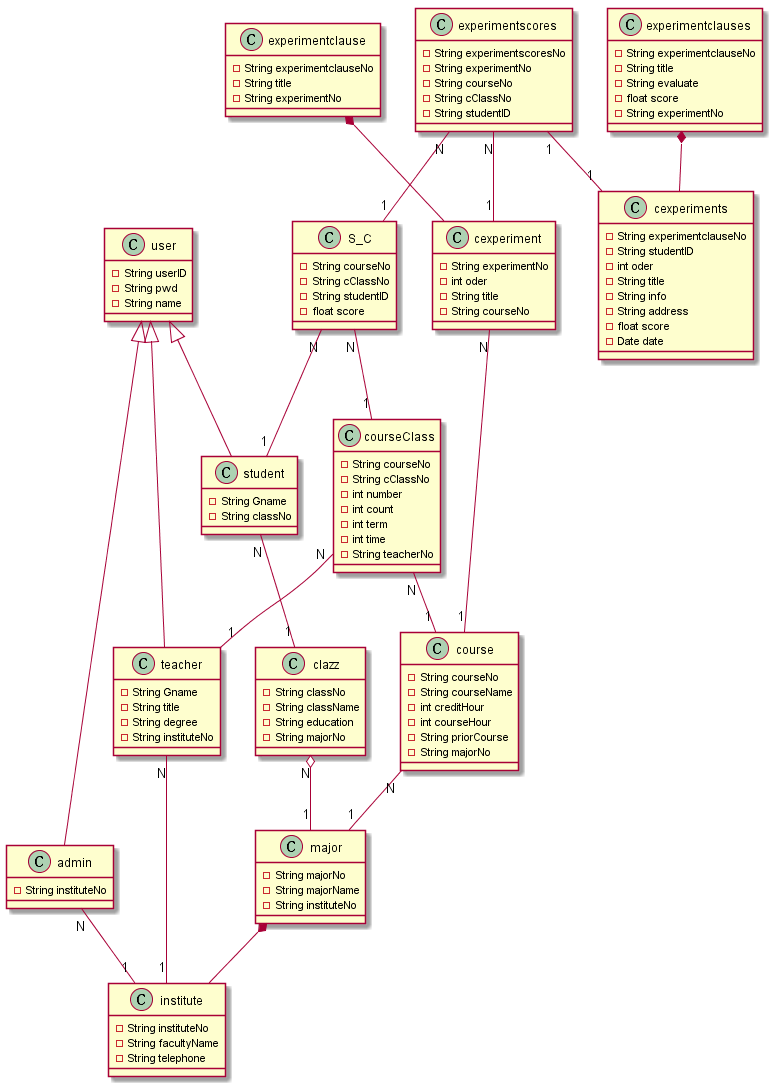
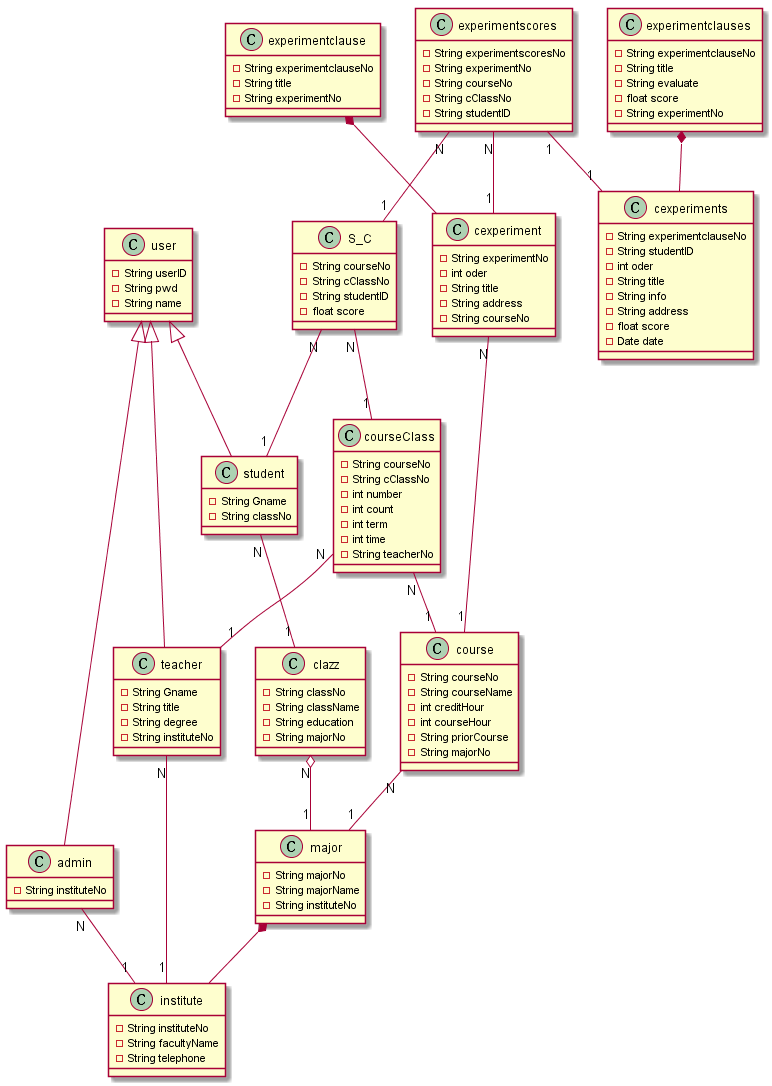
考虑到实验的地址最好还会预先指定好的话更方便后续操作,于是将涉及到的文件,对象更改或添加address字段,并修改解释

Changed region(s): [[0.5596, 0.1823, 0.7461, 0.3343]]

diff --git a/test6/数据库设计.md b/test6/数据库设计.md
@@ -63,6 +63,7 @@
 |experimentNo|varchar(8)|N|PK||
 |oder|int|N|||
 |title|varchar(20)|N|||
+|address|varchar(20)|Y|||
 |courseNo|varchar(6)|N|FK||
 
 - experimentclause
@@ -82,7 +83,7 @@
 |oder|int|N|||
 |title|varchar(20)|N|||
 |info|varchar(100)|N|||
-|address|varchar(50)|Y|||
+|address|varchar(20)|Y|||
 |date|datetime|Y|||
 |score|float|Y|||
 
